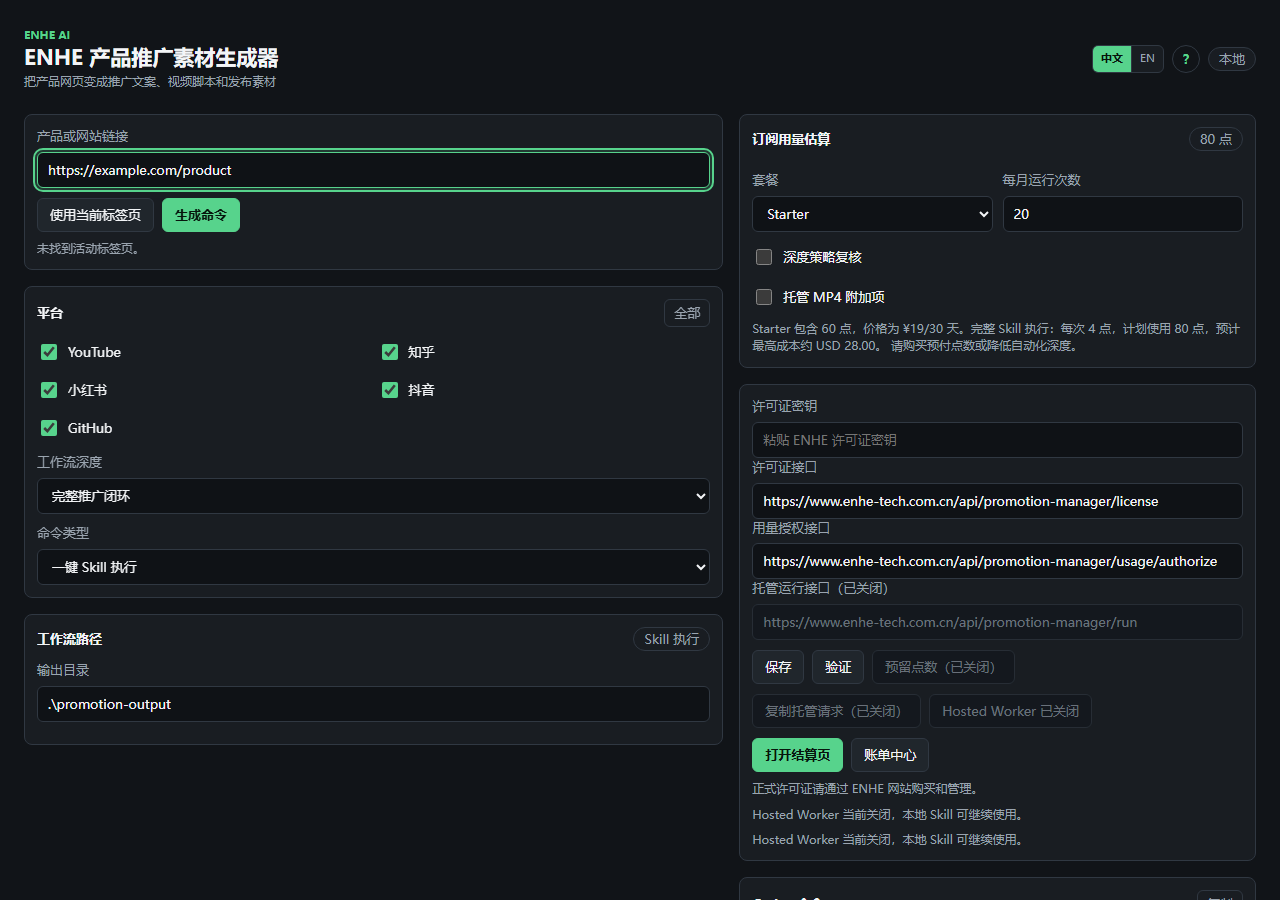
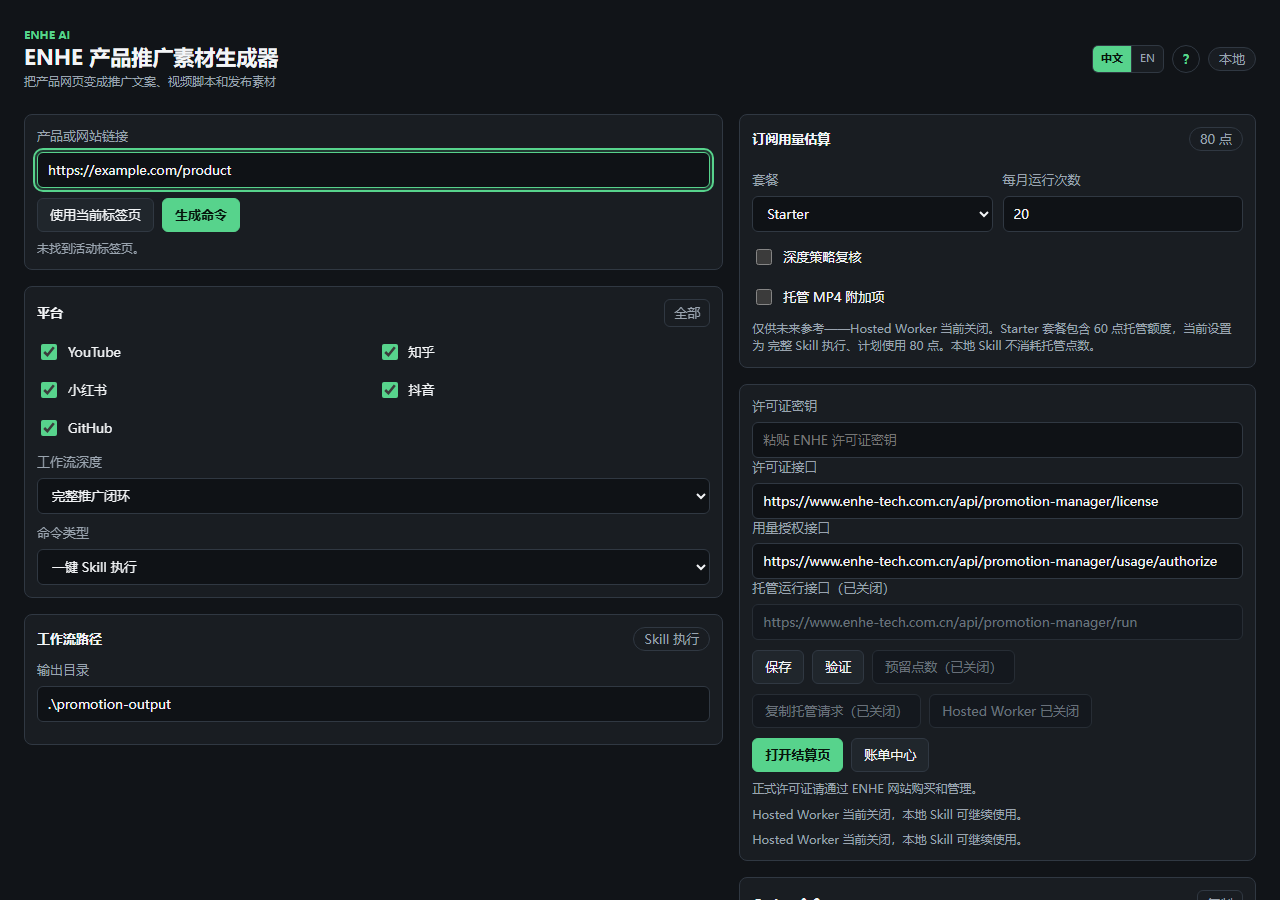
fix: suppress hosted credit upsell while disabled

Changed region(s): [[0.5938, 0.3422, 0.9688, 0.4044]]

diff --git a/browser-extension/popup.js b/browser-extension/popup.js
@@ -224,6 +224,7 @@ const EN_TRANSLATIONS = Object.freeze({
   acceptedStatus: "accepted",
   unknownValue: "unknown",
   creditsCount: "{credits} credits",
+  hostedEstimateReference: "Reference only — Hosted Worker off. {plan} includes {included} hosted credits; this setup plans {planned} credits for {workflow}. Local Skill runs do not consume hosted credits.",
   costSummary: "{plan} includes {included} credits at CNY {price}/30 days. {workflow}: {perRun} credits/run, {planned} credits planned, estimated gross cost up to USD {cost}.",
   costOverage: " Add prepaid credits or reduce automation depth.",
   labelWorkflow: "Workflow",
@@ -463,6 +464,7 @@ const ZH_TRANSLATIONS = Object.freeze({
   acceptedStatus: "已受理",
   unknownValue: "未知",
   creditsCount: "{credits} 点",
+  hostedEstimateReference: "仅供未来参考——Hosted Worker 当前关闭。{plan} 套餐包含 {included} 点托管额度，当前设置为 {workflow}、计划使用 {planned} 点。本地 Skill 不消耗托管点数。",
   costSummary: "{plan} 包含 {included} 点，价格为 ¥{price}/30 天。{workflow}：每次 {perRun} 点，计划使用 {planned} 点，预计最高成本约 USD {cost}。",
   costOverage: " 请购买预付点数或降低自动化深度。",
   labelWorkflow: "工作流",
@@ -1861,8 +1863,17 @@ async function openPortal() {
 function updateEstimate() {
   const estimate = estimateCredits();
   const plan = PLANS[els.plan.value] || PLANS.free;
-  const estimatedCost = estimate.credits * COST_PER_CREDIT;
   els.creditMeter.textContent = t("creditsCount", { credits: estimate.credits });
+  if (!HOSTED_WORKER_ENABLED) {
+    els.costSummary.textContent = t("hostedEstimateReference", {
+      plan: plan.label,
+      included: plan.credits,
+      workflow: t(estimate.label),
+      planned: estimate.credits
+    });
+    return;
+  }
+  const estimatedCost = estimate.credits * COST_PER_CREDIT;
   els.costSummary.textContent = currentLanguage === "en"
     ? `${plan.label} includes ${plan.credits} credits at CNY ${plan.priceCny}/30 days. ${t(estimate.label)}: ${estimate.creditsPerRun} credits/run, ${estimate.credits} credits planned, estimated gross cost up to USD ${estimatedCost.toFixed(2)}.`
     : t("costSummary", {

diff --git a/scripts/test_extension_ui.py b/scripts/test_extension_ui.py
@@ -164,6 +164,37 @@ class ExtensionUiContractTests(unittest.TestCase):
                     self.assertEqual(invoked["hostedRunMessage"], expected_message)
                     context.close()
 
+    def test_disabled_hosted_estimate_is_reference_only_without_upsell(self):
+        page_url = f"{(EXTENSION / 'popup.html').resolve().as_uri()}?view=workspace"
+        expected = {
+            "en-US": (
+                ("Reference only", "Hosted Worker off", "Local Skill runs do not consume hosted credits"),
+                ("USD", "prepaid", "estimated hosted cost", "estimated gross cost"),
+            ),
+            "zh-CN": (
+                ("仅供未来参考", "Hosted Worker 当前关闭", "本地 Skill 不消耗托管点数"),
+                ("USD", "预付", "预计最高成本"),
+            ),
+        }
+
+        with _chromium_browser(self) as browser:
+            for locale, (required, forbidden) in expected.items():
+                with self.subTest(locale=locale):
+                    context = browser.new_context(locale=locale, viewport={"width": 1280, "height": 900})
+                    page = context.new_page()
+                    page.goto(page_url, wait_until="load")
+                    page.locator('body[data-initialized="true"]').wait_for(timeout=3000)
+                    self.assertEqual(page.input_value("#plan"), "starter")
+                    self.assertEqual(page.input_value("#monthlyRuns"), "20")
+                    summary = page.text_content("#costSummary")
+                    for marker in required:
+                        self.assertIn(marker, summary)
+                    for marker in forbidden:
+                        self.assertNotIn(marker, summary)
+                    self.assertFalse(page.is_disabled("#openCheckout"))
+                    self.assertFalse(page.is_disabled("#openPortal"))
+                    context.close()
+
     def test_workspace_markup_groups_primary_and_secondary_content_with_unique_ids(self):
         self.assertRegex(self.html, r'<body[^>]*data-layout=["\']popup["\'][^>]*data-view=["\']main["\']')
         self.assertRegex(self.html, r'class=["\'][^"\']*workspace-grid[^"\']*["\']')